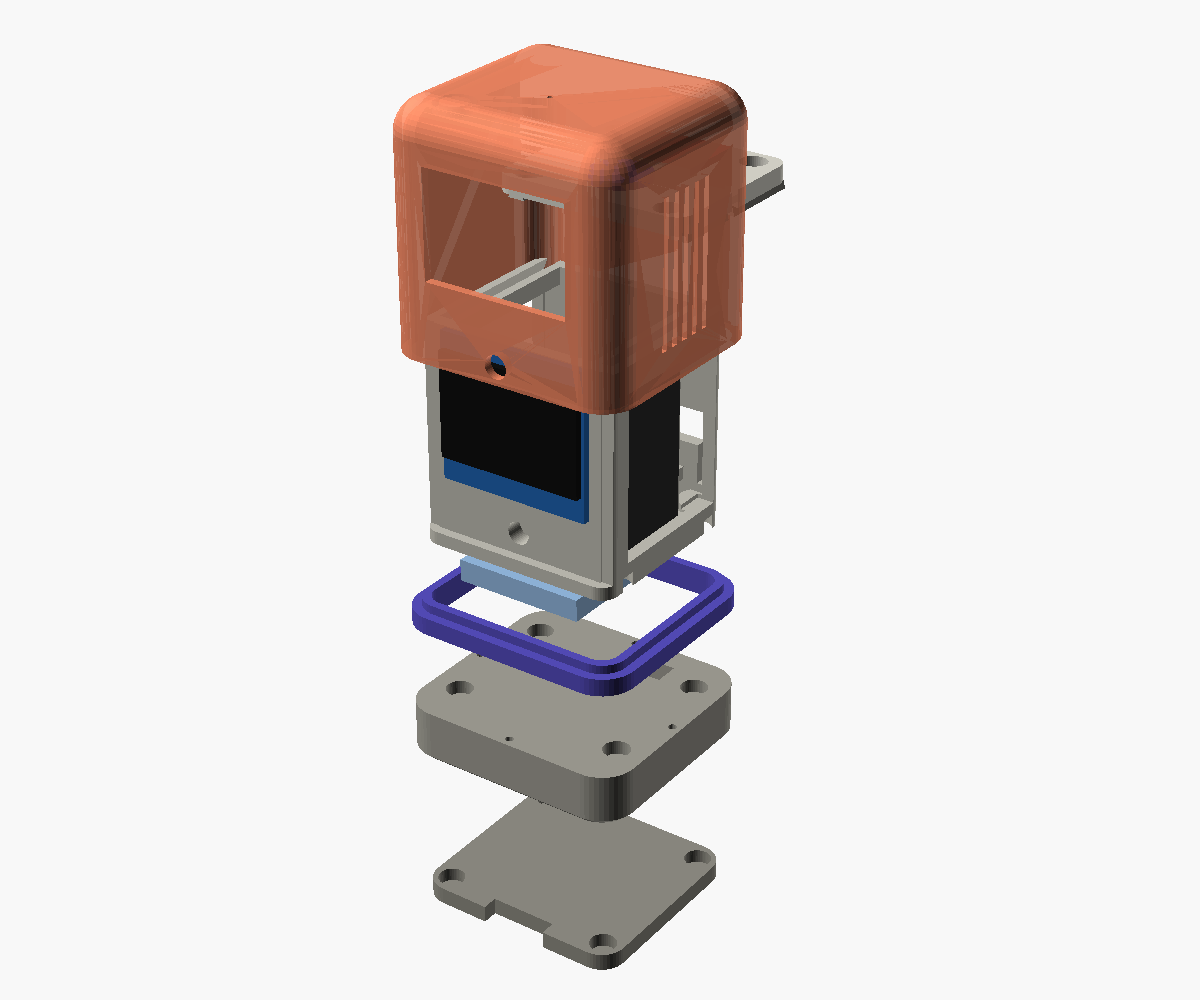
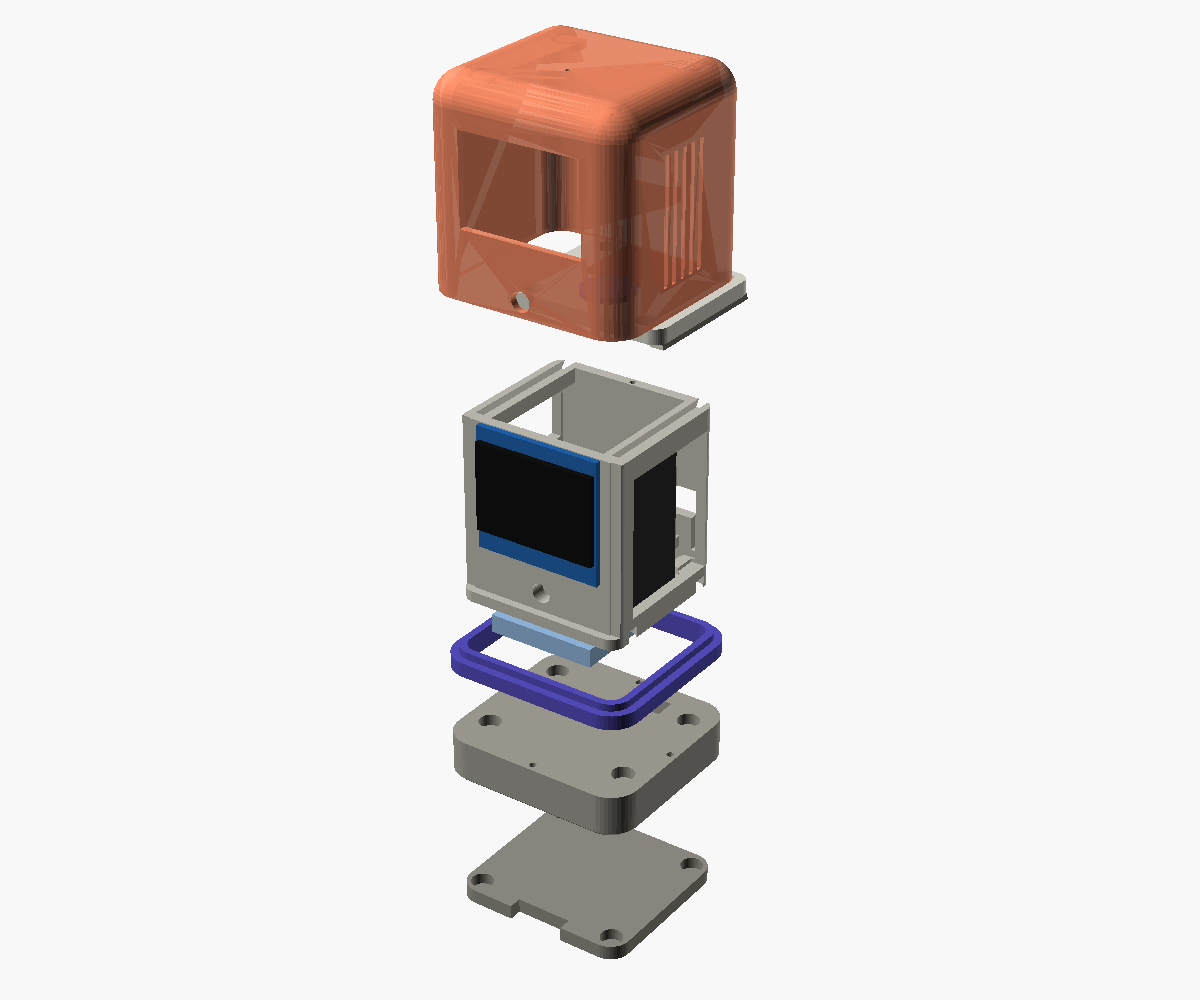
Animated explode GIF as the README hero
scripts/render_gif.sh renders 50 OpenSCAD frames (ease in/out, camera
pulls back) and assembles a 480 px looping GIF with ImageMagick.
Exploded spacing widened so the crown shows between rack and shell.

Changed region(s): [[0.3083, 0.0, 0.6783, 0.992], [0.555, 0.837, 0.6167, 0.93]]

diff --git a/README.md b/README.md
@@ -2,7 +2,7 @@
 
 **A modular, magnetic ESP32-C3 desk buddy.** Sparky has an animated OLED face, listens through a microphone, talks through a speaker, reacts to touch and knocks, and runs on USB or its own battery. Every module snaps together with magnets, so you can swap the shell, the battery base or the electronics rack without tools.
 
-![Sparky assembled](docs/images/sparky_assembled.png)
+<p align="center"><img src="docs/images/sparky_explode.gif" width="480" alt="Sparky snapping apart into its modules and back together"></p>
 
 [![CAD](https://github.com/slahiri/sparky/actions/workflows/cad.yml/badge.svg)](https://github.com/slahiri/sparky/actions/workflows/cad.yml)
 [![Firmware](https://github.com/slahiri/sparky/actions/workflows/firmware.yml/badge.svg)](https://github.com/slahiri/sparky/actions/workflows/firmware.yml)
@@ -71,6 +71,7 @@ STLs are **built from the OpenSCAD source by CI**, never committed:
 ```bash
 ./scripts/export_stl.sh      # STLs into stl/
 ./scripts/render_png.sh      # preview images into renders/
+./scripts/render_gif.sh      # the explode animation (needs ImageMagick)
 ```
 
 ## Inspiration

diff --git a/docs/index.md b/docs/index.md
@@ -2,7 +2,7 @@
 
 A modular, magnetic ESP32-C3 desk buddy with an animated OLED face, a microphone, a speaker, touch and knock sensing, and an optional battery.
 
-![Sparky assembled](images/sparky_assembled.png)
+![Sparky snapping apart into its modules](images/sparky_explode.gif)
 
 > **v0.1 prototype.** Part sizes are estimates and nothing has been test-printed yet. Measure your parts and adjust [config.scad](https://github.com/slahiri/sparky/blob/main/cad/config.scad) first.
 
